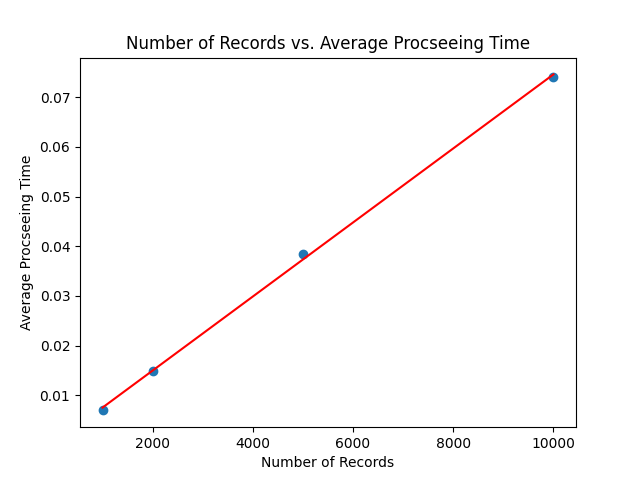
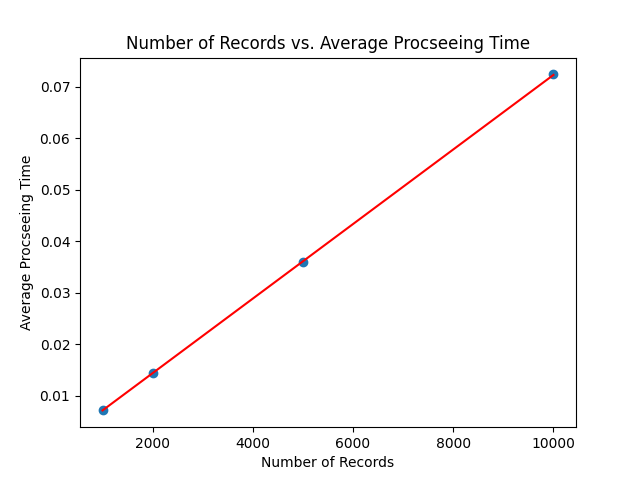
final changes

diff --git a/ex3.2.py b/ex3.2.py
@@ -2,7 +2,6 @@ import timeit
 import matplotlib.pyplot as plt
 import numpy as np
 
-before = """
 import json
 largeFile = open("large-file.json", encoding="utf8").read()
 largeFile = json.loads(largeFile) 
@@ -21,29 +20,14 @@ def change(obj, record):
                 change(item, record)
                 if i == record:      
                     break  
-"""
 
-testcode1 = """
-change(largeFile,1000)
-"""
-testcode2 = """
-change(largeFile,2000)
-"""
-testcode3 = """
-change(largeFile,5000)
-"""
+time1 = timeit.timeit(lambda: change(largeFile,1000), number=100)
 
-testcode4 = """
-change(largeFile,10000)
-"""
+time2 = timeit.timeit(lambda: change(largeFile,2000), number=100)
 
-time1 = timeit.timeit(stmt=testcode1,setup=before, number=100)
+time3 = timeit.timeit(lambda: change(largeFile,5000), number=100)
 
-time2 = timeit.timeit(stmt=testcode2,setup=before, number=100)
-
-time3 = timeit.timeit(stmt=testcode3,setup=before, number=100)
-
-time4 = timeit.timeit(stmt=testcode4,setup=before, number=100)
+time4 = timeit.timeit(lambda: change(largeFile,10000), number=100)
 
 records = np.array([1000, 2000, 5000, 10000])
 
@@ -71,4 +55,3 @@ plt.xlabel('Number of Records')
 plt.ylabel('Average Procseeing Time')
 plt.title('Number of Records vs. Average Procseeing Time')
 plt.savefig("output.3.2.png")
-

diff --git a/ex3.3.py b/ex3.3.py
@@ -2,7 +2,6 @@ import timeit
 import matplotlib.pyplot as plt
 import numpy as np
 
-before = """
 import json
 largeFile = open("large-file.json", encoding="utf8").read()
 largeFile = json.loads(largeFile) 
@@ -21,14 +20,9 @@ def change(obj):
                 change(item)
                 if i == 1000:      
                     break  
-"""
-
-testcode = """
-change(largeFile)
-"""
 
 
-time = timeit.repeat(stmt=testcode,setup=before, repeat=1000, number=1)
+time = timeit.repeat(lambda: change(largeFile),repeat=1000, number=1)
 
 arrTime = np.array(time)
 

diff --git a/ex3.1.py b/ex3.1.py
@@ -25,13 +25,13 @@ for i in range(len(above)):
 arrA = np.array(dataA)
 
 plt.hist(arrA, color='skyblue', edgecolor='black')
-plt.xlabel('tempo')
+plt.xlabel('Tempo')
 plt.ylabel('Frequency')
 plt.title('Tempo of Songs Above Loudness -8')
 plt.savefig("hist1.png") 
 plt.clf()
 plt.hist(arrB, color='skyblue', edgecolor='black')
-plt.xlabel('tempo')
+plt.xlabel('Tempo')
 plt.ylabel('Frequency')
 plt.title('Tempo of Songs Below Loudness -8') 
 plt.savefig("hist2.png")

diff --git a/ex2.5.py b/ex2.5.py
@@ -1,8 +1,6 @@
 import timeit
-
-
-before = """
 import json
+
 largeFile = open("large-file.json", encoding="utf8").read()
 largeFile = json.loads(largeFile) 
 
@@ -18,13 +16,7 @@ def change(obj):
         for item in obj:
             change(item)
 
-"""
-testcode = """
-
-change(largeFile)
-"""
-
-time = timeit.timeit(stmt=testcode,setup=before, number=10)
+time = timeit.timeit(lambda: change(largeFile), number=10)
 
 average = time/10
 print(average)
